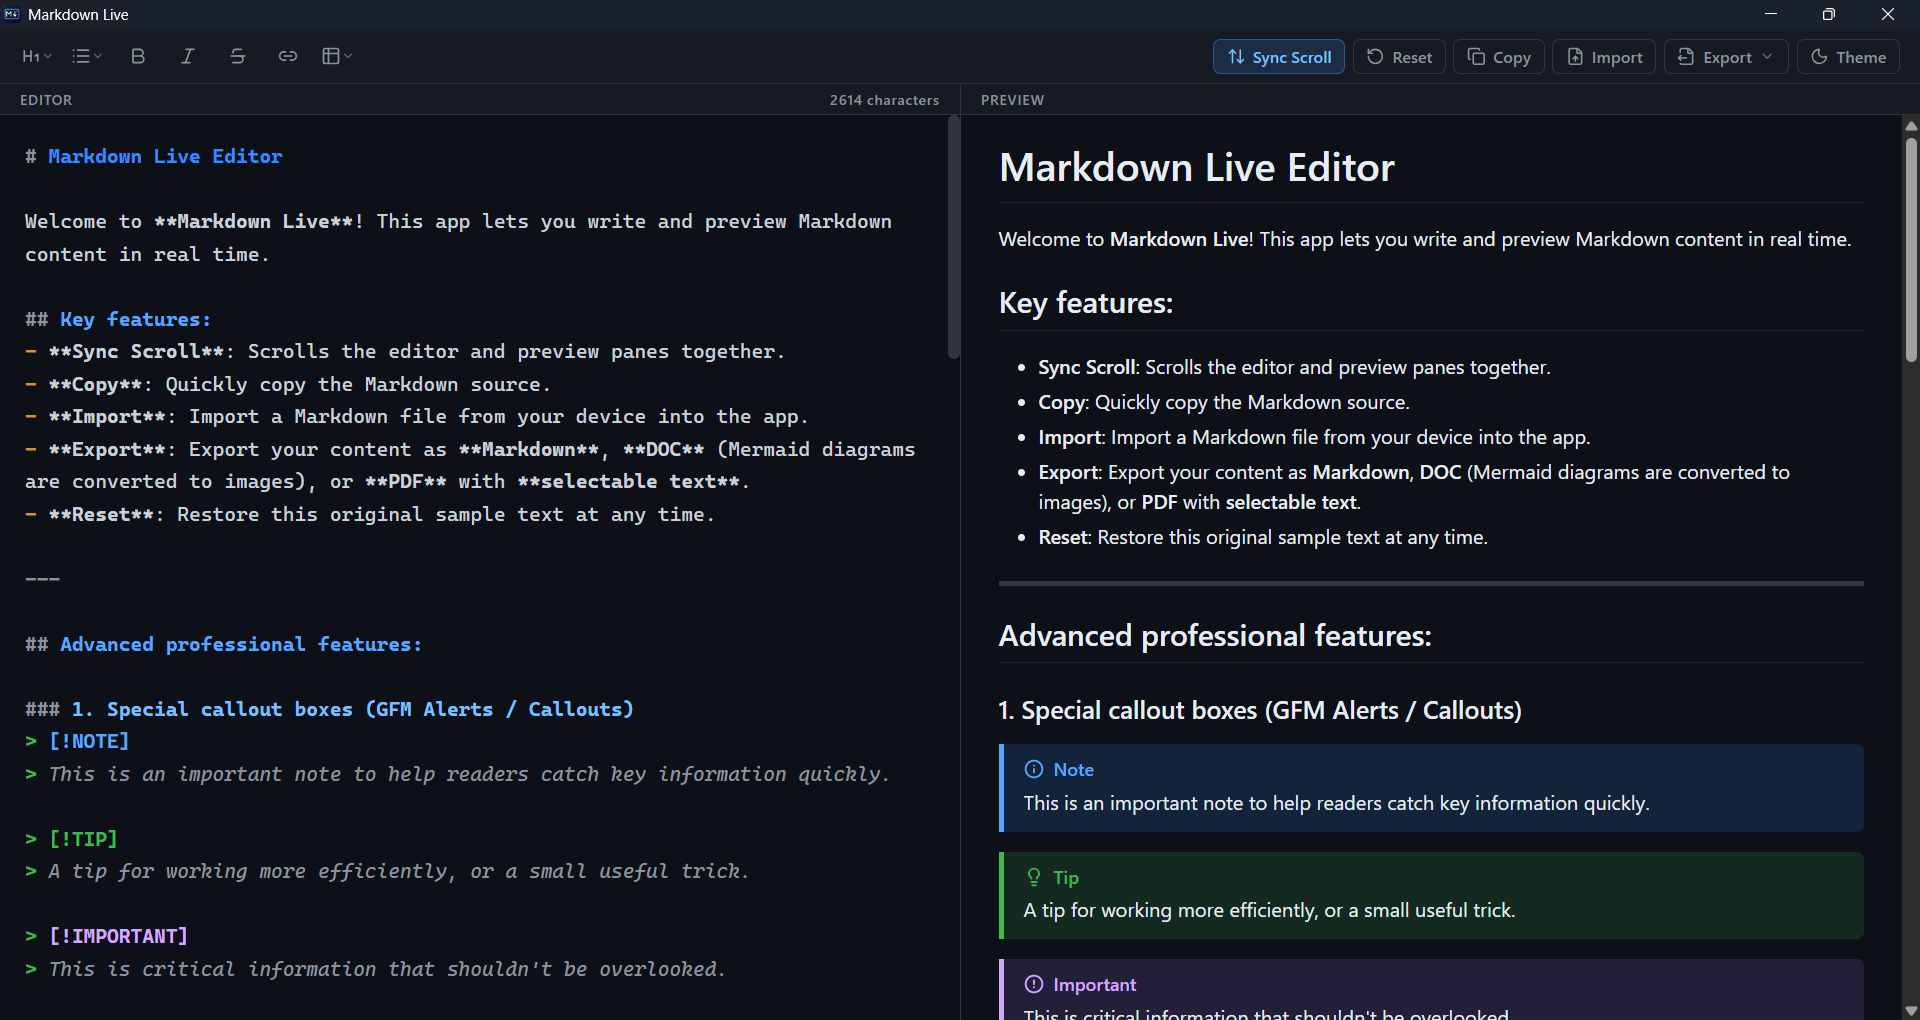
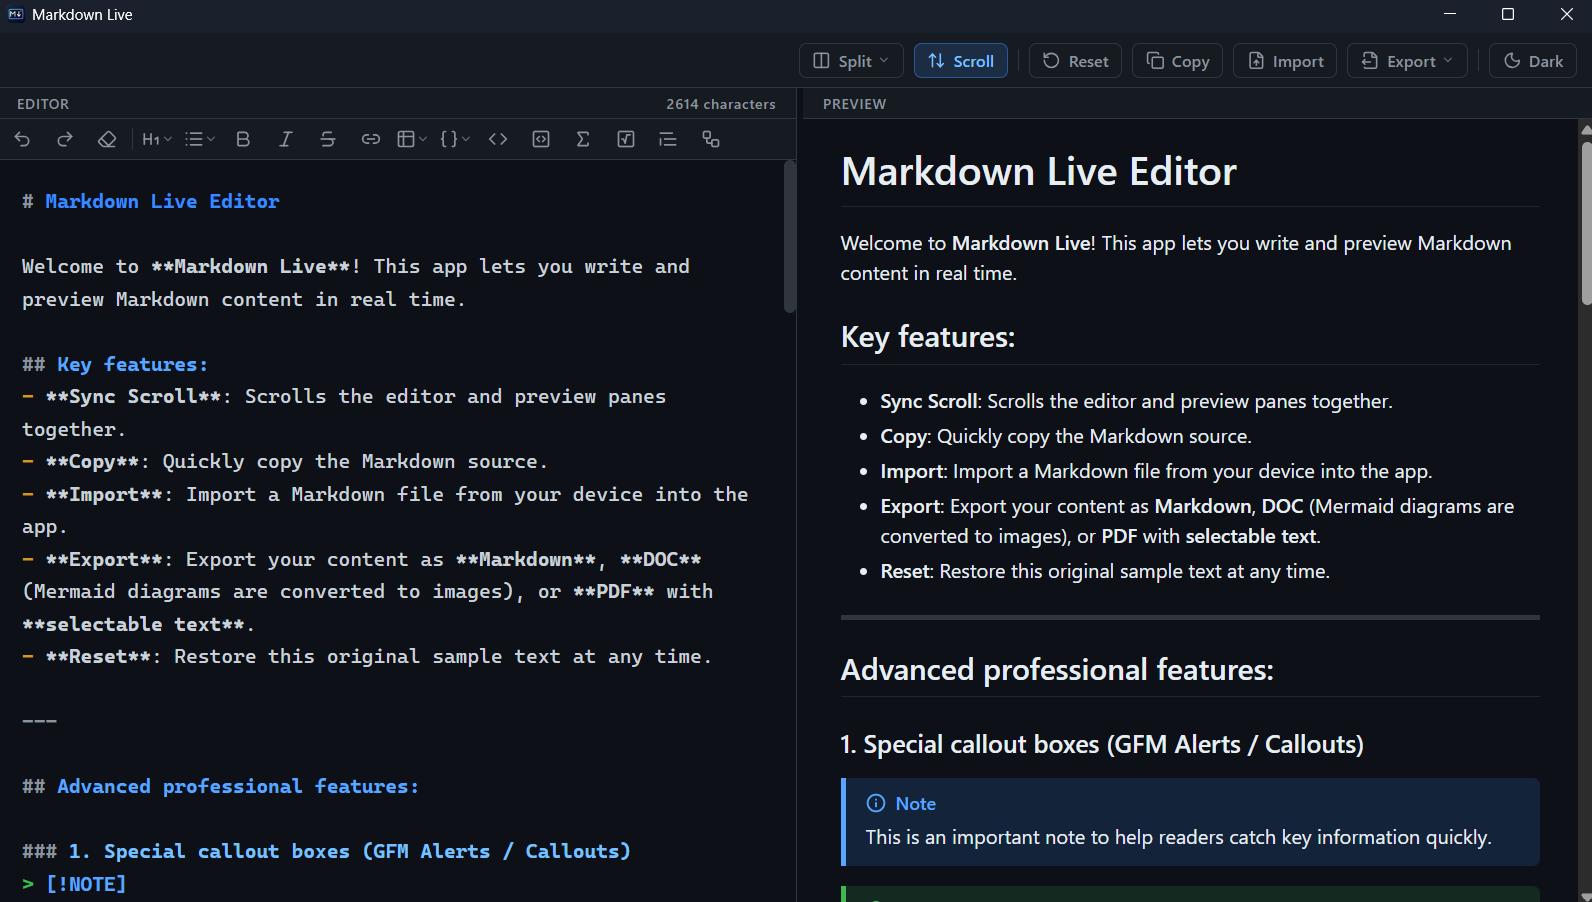
Update README

diff --git a/README.md b/README.md
@@ -40,15 +40,19 @@ A standalone, offline-first, real-time bidirectional Markdown editor packaged on
 ## Technical Features
 
 - **Dual-Pane Bidirectional Sync:** Side-by-side editing and preview with near-zero latency.
+- **Three View Modes & Resizable Panes:** Instantly switch between **Editor**, **Split**, and **Preview** from a toolbar dropdown, or drag the divider between the panes to any width — dragging it all the way to an edge switches modes automatically.
 - **GFM Alert Specifications:** Fully compatible with GitHub Markdown Alerts (`NOTE`, `TIP`, `IMPORTANT`, `WARNING`, `CAUTION`).
 - **LaTeX Math Rendering:** Integrated KaTeX parser for both inline (`$...$`) and block (`$$...$$`) math formulas.
 - **Diagrams as Code:** Integrated Mermaid.js engine supporting Flowcharts, Sequence Diagrams, and Entity Relationship Diagrams (ERDs).
 - **Code Syntax Highlighting:** Automatic detection and multi-language syntax formatting powered by Highlight.js.
 - **Dynamic Syntax Overlay:** Textarea synchronized with real-time Markdown syntax highlighting directly in the editor.
-- **Formatting Toolbar:** One-click toolbar above the editor for Headings, Lists, Bold, Italic, Strikethrough, Links, and Tables, so you can format Markdown without memorizing the syntax.
-- **Multi-Format Export:** Export content as Markdown (`.md`), Word (`.doc`, with Mermaid diagrams converted to images), or vector PDF (text remains selectable and copyable, not rasterized into images).
+- **Full Editing Toolkit:** A dedicated toolbar for Undo/Redo/Clear, Headings, Lists, Bold, Italic, Strikethrough, Links, Tables, inline HTML tags (Superscript, Subscript, `<kbd>`, `<mark>`), inline/block code, inline/block math, Blockquotes, and Mermaid diagram snippets — no need to memorize the syntax.
+- **Visual Table & Link Insertion:** Build tables by hovering a 5×5 grid (or pick a custom size for larger tables), and insert links through a dialog with separate text/URL fields.
+- **Live Character Counter:** The editor pane header shows a real-time character count as you type.
+- **Multi-Format Export:** Export content as Markdown (`.md`), standalone HTML (`.html`), Word (`.doc`, with Mermaid diagrams converted to images), or vector PDF (text remains selectable and copyable, not rasterized into images).
 - **File Import:** Open a local Markdown file (`.md`, `.markdown`, `.txt`) directly into the editor.
 - **Light/Dark Theme:** Automatic system theme detection, manual theme switching, and state persistence between sessions.
+- **Auto-Save Session:** Your Markdown content and last-used view mode are saved locally and restored automatically the next time you launch the app.
 
 ---
 
@@ -118,12 +122,21 @@ After launching the application, type or paste your Markdown content into the **
 
 | Action | Description |
 | :--- | :--- |
+| **View** | Switch between **Editor**, **Split**, and **Preview** modes |
 | **Sync Scroll** | Toggle synchronized scrolling between Editor and Preview |
-| **Reset** | Restore the default template content |
+| **Reset** | Restore the default template content (confirmation required) |
 | **Copy** | Copy the full raw Markdown content to the clipboard |
 | **Import** | Load a Markdown file from your device into the editor |
-| **Export** | Open a menu to export content as **Markdown** (`.md`), **DOC** (`.doc`, Mermaid diagrams are converted to images), or **PDF** (via the system print dialog, selectable text) |
+| **Export** | Open a menu to export content as **Markdown** (`.md`), **HTML** (`.html`), **DOC** (`.doc`, Mermaid diagrams are converted to images), or **PDF** (via the system print dialog, selectable text) |
 | **Theme** | Toggle between Light and Dark themes |
+
+### View Modes & Resizing Panes
+
+- **Editor** — full-width editing with no live preview.
+- **Split** — Editor and Preview side by side (default).
+- **Preview** — full-width rendered output only.
+
+In **Split** mode, drag the vertical divider between the two panes to resize them freely; dragging it all the way to either edge switches to **Editor** or **Preview** automatically. The app remembers your last-used view mode between sessions (the pane width itself is not saved and always reopens at 50/50).
 
 ### Formatting Toolbar
 
@@ -131,16 +144,27 @@ The formatting toolbar sits above the **EDITOR** pane. Select some text and clic
 
 | Button | Description | Markdown Output | Shortcut |
 | :--- | :--- | :--- | :--- |
+| **Undo** / **Redo** | Step backward or forward through your edit history | — | `Ctrl`/`Cmd` + `Z` / `Ctrl`/`Cmd` + `Y` |
+| **Clear** | Empty the entire editor (confirmation required) | — | — |
 | **Headings** | Choose a heading level from the list | `# Heading 1` ... `###### Heading 6` | — |
 | **Lists** | Choose a list type: bullet, numbered, or task list | `- item`, `1. item`, `- [ ] task` | — |
 | **B** (Bold) | Make the selected text bold | `**text**` | `Ctrl`/`Cmd` + `B` |
 | *I* (Italic) | Make the selected text italic | `*text*` | `Ctrl`/`Cmd` + `I` |
 | ~~S~~ (Strikethrough) | Strike through the selected text | `~~text~~` | `Ctrl`/`Cmd` + `Shift` + `X` |
-| **Link** | Insert a link; the `url` placeholder is highlighted for quick pasting | `[text](url)` | `Ctrl`/`Cmd` + `K` |
-| **Table** | Insert a Markdown table template at the cursor | `\| Column \| Column \|` | — |
+| **Link** | Opens a dialog to enter display text and a URL, then inserts the link | `[text](url)` | — |
+| **Table** | Pick dimensions on a visual 5×5 grid, or choose **Custom size** for larger tables | `\| Column \| Column \|` | — |
+| **HTML Inline** | Wrap the selection in Superscript, Subscript, `<kbd>` (keyboard key), or `<mark>` (highlight) | `<sup>`, `<sub>`, `<kbd>`, `<mark>` | — |
+| **Inline Code** | Wrap the selection as inline code | `` `code` `` | `Ctrl`/`Cmd` + `E` |
+| **Code Block** | Insert a fenced code block | ` ```js ... ``` ` | — |
+| **Inline Math** | Wrap the selection as inline LaTeX | `$E = mc^2$` | — |
+| **Math Block** | Insert a LaTeX display block | `$$ ... $$` | — |
+| **Blockquote** | Turn the current line(s) into a blockquote | `> text` | — |
+| **Mermaid Diagram** | Insert a starter Mermaid diagram block | ` ```mermaid ... ``` ` | — |
 
 > [!TIP]
 > All toolbar actions work with Undo/Redo (`Ctrl`/`Cmd` + `Z` / `Ctrl`/`Cmd` + `Y`), and the preview updates instantly after each action.
+>
+> The toolbar **Link** button opens a dialog for entering text and a URL, while the `Ctrl`/`Cmd` + `K` shortcut instead inserts `[link](url)` inline with `url` pre-selected for quick pasting — use whichever is faster for you.
 
 ### Editor Shortcuts
 
